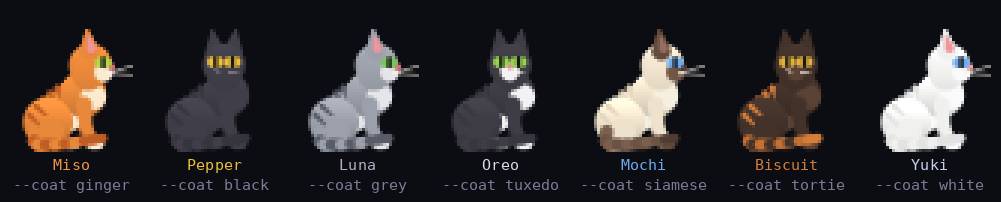
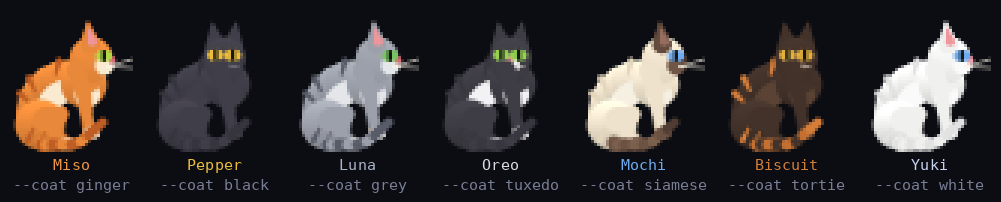
Planted paws, Muybridge gallop and staged jumps
- Paws are planted in world space and take quick arcing steps in diagonal
  pairs when the pose drifts away from them (turns, sitting, weight shifts),
  replacing the old lift-when-sliding trick.
- Rotary gallop with two flight phases per stride (extended and gathered),
  spine extension/flexion on those beats and late-swing leg reach.
- Jumps: hind paws stay planted while the body extends at take-off, forelegs
  tuck, then reach down so they land first.
- Refreshed screenshots and GIFs; new GIF of the wall-kick climb.

diff --git a/kittyfetch.py b/kittyfetch.py
@@ -791,6 +791,8 @@ POSES = {
                    tailA=-0.1, tailC=0.02, tailS=0.04, pup=0.9),
     'stretch': dict(hx=-6.4, hy=9.6, sx=6.2, sy=3.6, arch=-1.6, hdx=4.6, hdy=1.4, htilt=0.35, ffx=13.0,
                     hfx=-6.4, ear=0.5, eye=0.15, tailA=1.5, tailC=0.04),
+    'launch': dict(hx=-7.2, hy=7.0, sx=6.2, sy=10.6, arch=-0.5, hdx=4.4, hdy=3.6, ffx=6.5, ffy=6.5, hfx=-11.0,
+                   hfy=1.0, tailA=0.2, tailC=0.03, ear=0.2),
     'air': dict(hx=-7.0, hy=8.6, sx=6.6, sy=9.2, arch=-0.4, hdx=4.4, hdy=3.4, ffx=11.0, ffy=6.0, hfx=-12.5,
                 hfy=5.5, tailA=0.35, tailC=0.05, ear=0.25),
     'reach': dict(hx=-3.6, hy=7.0, sx=0.8, sy=13.5, arch=-0.2, hdx=2.0, hdy=4.2, htilt=0.6, ffx=4.0, ffy=13.0,
@@ -892,7 +894,8 @@ class Cat:
         self.bob_h = self.bob_s = self.flex = 0.0
         self.pex, self.pey, self.pexv, self.peyv = [0.0] * 4, [0.0] * 4, [0.0] * 4, [0.0] * 4
         self.pext, self.peyt = [0.0] * 4, [0.0] * 4
-        self.lift, self.liftv, self.fwx = [0.0] * 4, [0.0] * 4, [None] * 4
+        self.feet = [dict(mode='free', pos=None) for _ in range(4)]
+        self.plant_until = [0.0] * 4          # keep these paws planted while airborne (jump take-off)
         self.ta = [PI - 1.0 - 0.14 * i for i in range(TAIL_N)]
         self.tv = [0.0] * TAIL_N
         self.tail_tw, self.tail_freq = 0.0, 0.3
@@ -938,7 +941,7 @@ class Cat:
             self.level = 'floor'
         self.x = clamp(self.x * fx, *w.bounds(self.level))
         self.y = w.ground(self.level, self.x)
-        self.fwx = [None] * 4
+        self.feet = [dict(mode='free', pos=None) for _ in range(4)]
 
     # ----------------------------------------------------------- frame update
     def update(self, dt):
@@ -1093,33 +1096,29 @@ class Cat:
         # gait clock: feet are a function of travelled distance, so they never skate
         gal, stride = cur['gal'], clamp(cur['stride'], 0, 1)
         L = 8.5 + 9.5 * gal
-        duty = 0.62 - 0.24 * gal
+        duty = 0.62 - 0.34 * gal
         lift_h = 1.5 + 1.6 * gal
         self.phase = (self.phase + self.v * dt / L) % 1.0
         for i in range(4):
             ph = (self.phase + lerp(WALK_OFF[i], GAL_OFF[i], gal)) % 1.0
             if ph < duty:
-                fx, fy = 0.5 - ph / duty, 0.0
+                fx, fy, reach = 0.5 - ph / duty, 0.0, 0.0
             else:
                 s = (ph - duty) / (1 - duty)
                 fx, fy = -0.5 + smooth(s), math.sin(PI * s)
-            self.gx[i] = fx * L * duty * stride
+                reach = gal * (3.0 if i < 2 else 3.5) * math.sin(PI * s ** 1.6)  # legs reach late in the swing
+            self.gx[i] = (fx * L * duty + reach) * stride
             self.gy[i] = fy * lift_h * stride
+        # Rotary gallop after Muybridge: hind pair lands at phase 0, fore pair at ~0.55. The body flies
+        # stretched out after the hind push (~0.47) and bunched up after the fore push (~0.97); the
+        # spine extends and gathers on those beats and the chest dips while the forelegs are down.
         P = self.phase * TAU
-        self.bob_h = stride * ((1 - gal) * 0.3 * math.cos(2 * P) + gal * 1.1 * math.sin(P + 0.6))
-        self.bob_s = stride * ((1 - gal) * 0.3 * math.cos(2 * P + 1.2) + gal * 1.1 * math.sin(P + 0.6 + PI))
-        self.flex = stride * gal * 1.4 * math.sin(P)
-        # feet that move sideways without the gait (turning, shuffling) step instead of sliding
-        c = math.cos(self.th)
-        for i in range(4):
-            base = (cur['ffx'] if i < 2 else cur['hfx']) + self.gx[i] + self.pex[i]
-            wx = self.x + base * c * self.S
-            sp = abs(wx - self.fwx[i]) / dt / self.S if self.fwx[i] is not None and dt > 0 else 0.0
-            self.fwx[i] = wx
-            on_ground = (cur['ffy'] if i < 2 else cur['hfy']) < 1.6 and not self.airborne
-            alt = max(0.0, math.sin(self.t * TAU * 2.2 + (0 if i in (0, 3) else PI)))
-            tg = clamp(sp * 0.11, 0, 1.6) * (1 - stride) * alt if on_ground else 0.0
-            self.lift[i], self.liftv[i] = spring(self.lift[i], self.liftv[i], tg, 22, dt)
+        lift = gal * (0.5 + 0.5 * math.cos(2 * (P - 0.47 * TAU)))
+        pitch = gal * 0.9 * math.sin(P - 0.5 * TAU)
+        self.bob_h = stride * ((1 - gal) * 0.3 * math.cos(2 * P) + 1.2 * lift + pitch)
+        self.bob_s = stride * ((1 - gal) * 0.3 * math.cos(2 * P + 1.2) + 1.2 * lift - pitch)
+        self.flex = stride * gal * 2.0 * math.cos(P - 0.47 * TAU)
+        self.place_feet(stride)
         # tail: per-segment angle springs, stiffer at the root so the tip lags (overlap)
         base = PI - cur['tailA']
         cum = 0.0
@@ -1131,6 +1130,68 @@ class Cat:
             tg = base - cum + sway + tw
             tg += (PI - tg) * trail * (0.3 + 0.7 * i / TAIL_N)
             self.ta[i], self.tv[i] = spring(self.ta[i], self.tv[i], tg, 15 - 8 * i / TAIL_N, dt)
+
+    def paw_target(self, i):
+        """Where the pose wants paw i: world (x px, y px, depth units)."""
+        c, S = self.cur, self.S
+        front = i < 2
+        a = self.th if front else self.thr
+        f = (c['ffx'] - (0.5 if i == 1 else 0) if front else c['hfx'] + (0.6 if i == 3 else 0)) \
+            + self.gx[i] + self.pex[i]
+        u = max(1.0, (c['ffy'] if front else c['hfy']) + self.gy[i] + self.pey[i])
+        lat = LEG_LAT[i]
+        return (self.x + (f * math.cos(a) - lat * math.sin(a)) * S, self.y - u * S, f * math.sin(a) + lat * math.cos(a))
+
+    def place_feet(self, stride):
+        """Paws stay planted in the world and take a quick arcing step, in diagonal pairs, once the
+        pose has drifted away from them. The gait clock, reaching paws and jumps drive them directly."""
+        S, t = self.S, self.t
+        due = []
+        for i, f in enumerate(self.feet):
+            tgt = self.paw_target(i)
+            prev = f.get('last', tgt)
+            f['last'] = tgt
+            vel = tuple((tgt[j] - prev[j]) / max(self.dt, 1e-3) for j in range(3))
+            base_u = self.cur['ffy' if i < 2 else 'hfy']
+            free = (self.airborne and t >= self.plant_until[i]) or stride > 0.3 or abs(self.pex[i]) > 0.25 \
+                or self.pey[i] > 0.35 or base_u > 1.6
+            if free:
+                if f['mode'] != 'free':  # let go smoothly instead of snapping to the pose
+                    f['mode'], f['rel'], f['rel_t'] = 'free', f['pos'], t
+                k = smooth((t - f.get('rel_t', -9)) / 0.15)
+                r = f.get('rel') or tgt
+                f['pos'] = tuple(lerp(r[j], tgt[j], k) for j in range(3))
+                continue
+            if f['mode'] == 'free':
+                pos = f['pos'] or tgt
+                if abs(pos[1] - tgt[1]) < 0.4 * S and math.hypot((pos[0] - tgt[0]) / S, pos[2] - tgt[2]) < 0.6:
+                    f['mode'], f['pos'] = 'plant', tgt
+                else:
+                    f.update(mode='swing', start=pos, t0=t, dur=0.18)
+            if f['mode'] == 'swing':
+                e = (t - f['t0']) / f['dur']
+                # land a little ahead of where the pose is heading, so the paw stays planted longer
+                lead = 0.12 * (1 - e) + 0.12
+                end = (tgt[0] + vel[0] * lead, tgt[1], tgt[2] + vel[2] * lead)
+                if e >= 1:
+                    f['mode'], f['pos'] = 'plant', end
+                else:
+                    k, (x0, y0, z0) = smooth(e), f['start']
+                    hop = 1.3 * S * math.sin(PI * e)
+                    f['pos'] = (lerp(x0, end[0], k), lerp(y0, end[1], k) - hop, lerp(z0, end[2], k))
+            elif not self.airborne:
+                x0, y0, z0 = f['pos']
+                err = math.hypot((x0 - tgt[0]) / S, z0 - tgt[2]) + abs(y0 - tgt[1]) / S
+                if err > 1.1:
+                    due.append((err, i))
+        swinging = {i for i, f in enumerate(self.feet) if f['mode'] == 'swing'}
+        for err, i in sorted(due, reverse=True):
+            # step alongside the diagonal partner (0-3, 1-2); a badly stretched leg steps regardless
+            if (swinging - {3 - i} and err < 2.6) or len(swinging) >= 3:
+                continue
+            f = self.feet[i]
+            f.update(mode='swing', start=f['pos'], t0=t, dur=0.13 + 0.01 * min(err, 6))
+            swinging.add(i)
 
     def drives(self, dt):
         if self.asleep:
@@ -1255,9 +1316,10 @@ class Cat:
             lat = LEG_LAT[i]
             front = i < 2
             a = thf if front else thr
-            pf = (p['ffx'] - (0.5 if i == 1 else 0) if front else p['hfx'] + (0.6 if i == 3 else 0)) \
-                + self.gx[i] + self.pex[i]
-            pu = max(1.0, (p['ffy'] if front else p['hfy']) + self.gy[i] + self.pey[i] + self.lift[i])
+            fp = self.feet[i]['pos'] or self.paw_target(i)
+            px_, pu, pz_ = (fp[0] - X0) / S, (Y0 - fp[1]) / S, fp[2]
+            pf = px_ * math.cos(a) + pz_ * math.sin(a)
+            plat = -px_ * math.sin(a) + pz_ * math.cos(a)          # where the paw sits sideways
             near = lat * math.cos(a) >= 0
             col = pal['fur'] if near else pal['far']
             paw = pal['paw'] if near else pal['paw_f']
@@ -1280,10 +1342,11 @@ class Cat:
                 nf, nu, kf, ku = ik(hf, hu, kf, ku, 3.0, 3.4, 1)
                 bones = (((hf, hu), (nf, max(nu, 0.9)), 2.2, 1.5), ((nf, max(nu, 0.9)), (kf, ku), 1.3, 1.05),
                          ((kf, ku), (pf, pu), 1.05, 0.95))
+            lats = (lat, lat, lerp(lat, plat, 0.5), plat)   # joints drift sideways toward the paw
             for k, ((f0, u0), (f1, u1), ra, rr) in enumerate(bones):
-                A, Bp = at((0, 0, 0), a, f0, u0, lat), at((0, 0, 0), a, f1, u1, lat)
+                A, Bp = at((0, 0, 0), a, f0, u0, lats[k]), at((0, 0, 0), a, f1, u1, lats[k + 1])
                 add((A[2] + k * 0.001, 1, *P(A), *P(Bp), ra * S, rr * S, col, 1.0))
-            A, Bp = at((0, 0, 0), a, pf, pu, lat), at((0, 0, 0), a, pf + 0.8, pu - 0.05, lat)
+            A, Bp = at((0, 0, 0), a, pf, pu, plat), at((0, 0, 0), a, pf + 0.8, pu - 0.05, plat)
             add((A[2] + 0.003, 1, *P(A), *P(Bp), 1.08 * S, 1.0 * S, paw, 1.0))
 
         # tail: chain of angle springs in the hip plane
@@ -1598,8 +1661,11 @@ class Cat:
         top = min(y0, y1) - h * S
         hh = (y0 + y1) / 2 - top
         dur = 0.32 + 0.011 * abs(tx - x0) / S + 0.014 * max(0.0, (y0 - y1) / S) + 0.01 * h
-        self.set_pose(air)
+        staged = air == 'air'  # take-off with forelegs tucked, stretched flight, reach down to land
+        self.set_pose('launch' if staged else air)
+        stage = 0
         base_sy, base_hy = self.tgt['sy'], self.tgt['hy']
+        self.plant_until = [self.t, self.t, self.t + 0.11, self.t + 0.11]
         self.airborne, self.v, self.vt, self.tgt['stride'] = True, 0.0, 0.0, 0.0
         self.snap = 1.6
         t0, flipped = self.t, False
@@ -1610,10 +1676,14 @@ class Cat:
             self.x = lerp(x0, tx, u)
             self.y = lerp(y0, y1, u) - 4 * hh * u * (1 - u)
             vyu = (y1 - y0) - 4 * hh * (1 - 2 * u)
-            pitch = clamp(math.atan2(-vyu, abs(tx - x0) + 6 * S), -0.7, 0.7) if air == 'air' else 0.0
+            if staged and stage < (1 if u < 0.6 else 2) and u > 0.28:
+                stage = 1 if u < 0.6 else 2
+                self.set_pose('air')
+                if stage == 2:  # forelegs reach down for the landing, hind legs tuck
+                    self.tgt.update(ffx=8.0, ffy=1.5, hfx=-5.5, hfy=4.0)
+                base_sy, base_hy = self.tgt['sy'], self.tgt['hy']
+            pitch = clamp(math.atan2(-vyu, abs(tx - x0) + 6 * S), -0.7, 0.7) if staged else 0.0
             self.tgt['sy'], self.tgt['hy'] = base_sy + pitch * 4, base_hy - pitch * 4
-            if u > 0.55 and air == 'air':  # reach for the landing
-                self.tgt.update(ffx=8.0, ffy=1.5, hfx=-7.0, hfy=3.0)
             if flip and not flipped and u > 0.35:
                 self.aim(-self.dir)
                 self.th_k, flipped = 16.0, True

diff --git a/README.md b/README.md
@@ -9,9 +9,13 @@ One Python file, standard library only.
 
 ![kittyfetch on a 150-column terminal](docs/hero.png)
 
-| Laser hunt (press `l`, or move the mouse) | Night zoomies |
+| Laser hunt (press `l`, or move the mouse) | Night zoomies, with a wall kick |
 |---|---|
 | ![hunting the laser dot](docs/hunt.gif) | ![zoomies](docs/zoomies.gif) |
+
+| Wall-kicking up onto the fastfetch box |
+|---|
+| ![climbing onto the fastfetch box](docs/climb.gif) |
 
 ## Run it
 
@@ -114,8 +118,17 @@ the skeleton is rebuilt every frame:
   leg's swing, then upper arm and forearm (2-bone IK, elbow back).
 - **Hind legs:** digitigrade: thigh and shin (knee forward), then a long ankle
   bone that lies flat when the cat sits.
-- **Feet** come from a **gait clock** that advances with distance travelled, so
-  they never skate; a lateral-sequence walk blends into a rotary gallop.
+- **Paws** are planted in world space. When the pose drifts away from a planted
+  paw (turning, sitting down, shifting weight) it takes a quick arcing step, in
+  diagonal pairs, landing a little ahead of where the body is going.
+- **Gait:** while moving, paws follow a **gait clock** that advances with
+  distance travelled, so they never skate. The walk is a lateral sequence; the
+  gallop is a rotary gallop modelled on Muybridge's photographs, with two flight
+  phases per stride (stretched out after the hind push, bunched up after the
+  fore push) and the spine extending and gathering on those beats.
+- **Jumps** have stages: the hind paws stay planted while the body extends off
+  them, the forelegs tuck, the body stretches in flight, and the forelegs reach
+  down so they land before the hind legs.
 - **Tail:** a chain of angle springs, stiffer at the root, so the tip trails.
 - **Turning** is choreographed (head, then shoulders, then hips), with the
   spine's heading blended along its length so the body curls round.
@@ -153,4 +166,4 @@ the program uses a few percent of one core.
 - Under about 100 columns the fastfetch pane takes up a lot of the screen (the
   cat walks in front of it). Press `i` to hide it.
 - There's no 256-colour fallback: it's truecolor or `--ascii`.
-- Paws slide slightly while the cat turns on the spot.
+- The wall is the bare screen edge, so there's nothing visible for the paws to touch.
